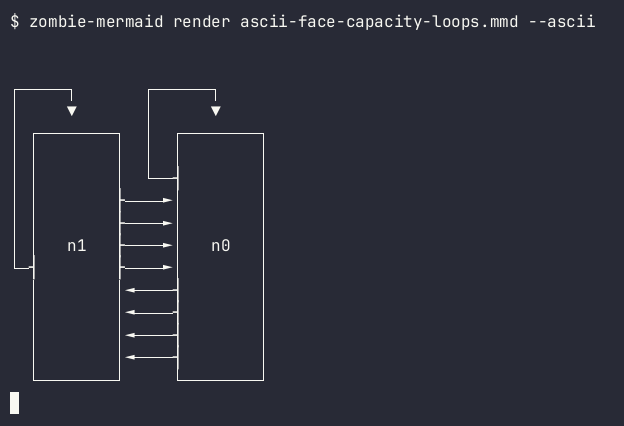
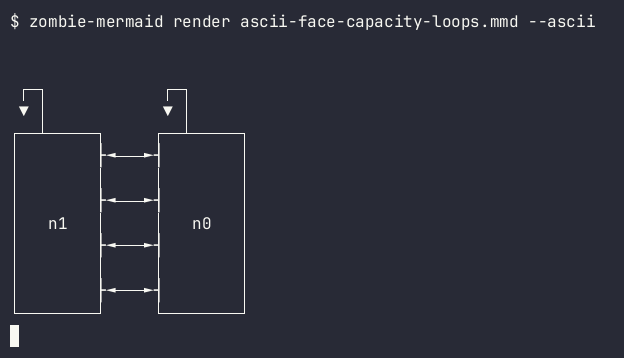
fix(ascii): pair dense edges one row each way, hook self-loops over the top (#2645)

diff --git a/packages/ascii-renderer/src/edge-routing.ts b/packages/ascii-renderer/src/edge-routing.ts
@@ -673,12 +673,10 @@ export function assignParallelEdgeLanes(graph: AsciiGraph): void {
   // #2645: a dense facing pair gives each edge a row of its own on the faces.
   for (const e of graph.edges) {
     if (!denseFacingPair(graph, e) || e.from.index > e.to.index) continue
-    const n = graph.edges.filter(
-      (o) =>
-        o.from !== o.to &&
-        new Set([o.from, o.to]).has(e.from) &&
-        new Set([o.from, o.to]).has(e.to),
-    ).length
+    const n = Math.max(
+      graph.edges.filter((o) => o.from === e.from && o.to === e.to).length,
+      graph.edges.filter((o) => o.from === e.to && o.to === e.from).length,
+    )
     const at = requireGridCoord(e.from).y + 1
     graph.rowHeight.set(at, Math.max(graph.rowHeight.get(at) ?? 0, n + 2))
   }
@@ -1396,7 +1394,7 @@ export function denseFacingPair(graph: AsciiGraph, edge: AsciiEdge): boolean {
         (o.from === edge.to && o.to === edge.from)),
   )
   return (
-    group.length >= 3 &&
+    group.length >= 6 &&
     group.some((o) => o.from === edge.from) &&
     group.some((o) => o.to === edge.from) &&
     group.every(
@@ -1407,6 +1405,22 @@ export function denseFacingPair(graph: AsciiGraph, edge: AsciiEdge): boolean {
         !o.clusterTarget,
     )
   )
+}
+
+/**
+ * Row key of an edge in a dense facing pair: its rank among the edges running
+ * its way, so the i-th edge each way shares one row (a stroke with a head at
+ * each end). Undefined outside such a pair.
+ */
+export function denseRank(
+  graph: AsciiGraph,
+  edge: AsciiEdge,
+): string | undefined {
+  if (!denseFacingPair(graph, edge)) return undefined
+  const same = graph.edges.filter(
+    (o) => o.from === edge.from && o.to === edge.to,
+  )
+  return `dense|${same.indexOf(edge)}`
 }
 
 /** A self-loop on a node that ends a `backStraight` pair (#2100). */
@@ -1851,6 +1865,31 @@ export function determinePath(graph: AsciiGraph, edge: AsciiEdge): void {
 
   // #2100: a back-edge beside its forward partner, when a skip edge needs the
   // bottom faces, is a second stroke between the facing side faces.
+  // #2645: a loop on a dense pair's node is a hook over the top face, out of
+  // one top cell and back into the next, as Mermaid draws it.
+  if (
+    edge.from === edge.to &&
+    effectiveDir === 'LR' &&
+    loopOnTop(graph, edge) &&
+    !edge.loopTopWanted &&
+    graph.edges.some(
+      (o) =>
+        denseFacingPair(graph, o) &&
+        (o.from === edge.from || o.to === edge.from),
+    )
+  ) {
+    const c = requireGridCoord(edge.from)
+    edge.startDir = Up
+    edge.endDir = Up
+    edge.faceLane = false
+    edge.path = [
+      { x: c.x + 1, y: c.y },
+      { x: c.x + 1, y: c.y - 1 },
+      { x: c.x + 2, y: c.y - 1 },
+      { x: c.x + 2, y: c.y },
+    ]
+    return
+  }
   const dense = denseFacingPair(graph, edge)
   const back =
     backStraight(graph, edge) ||

diff --git a/packages/ascii-renderer/src/__tests__/ascii-face-capacity-loops.test.ts b/packages/ascii-renderer/src/__tests__/ascii-face-capacity-loops.test.ts
@@ -28,19 +28,20 @@ describe('dense reciprocal group between facing faces (#2645)', () => {
   const src =
     'flowchart RL\n  n0["n0"]\n  n1["n1"]\n  n1 --> n0\n  n0 --> n1\n  n1 --> n0\n  n1 --> n0\n  n1 --> n1\n  n0 --> n0\n  n0 --> n1\n  n1 --> n0\n  n0 --> n1\n  n0 --> n1'
 
-  it('draws every edge as its own stroke between the side faces', () => {
+  it('pairs the edges each way on one stroke per row, heads at both ends', () => {
     const out = renderMermaidASCII(src)
-    // Four strokes each way, none merged; nothing runs under the nodes.
+    // Four rows, each ◄───► : every edge end keeps a cell and an arrowhead.
     expect(out.match(/►/g)).toHaveLength(4)
     expect(out.match(/◄/g)).toHaveLength(4)
-    const lines = out.split('\n')
-    expect(lines.filter((l) => /─►│|◄─/.test(l))).toHaveLength(8)
+    expect(out.split('\n').filter((l) => /◄─+►/.test(l))).toHaveLength(4)
+    // Nothing runs under the nodes.
+    expect(out.split('\n').at(-1)).toMatch(/^└─+┘\s+└─+┘$/)
   })
 
   it('puts the self-loops on top, above the nodes', () => {
     const out = renderMermaidASCII(src)
     const lines = out.split('\n')
-    const firstBox = lines.findIndex((l) => l.includes('┌────────┐'))
+    const firstBox = lines.findIndex((l) => l.includes('┴'))
     expect(firstBox).toBeGreaterThan(0)
     expect(lines.slice(0, firstBox).join('')).toMatch(/▼/)
   })

diff --git a/packages/ascii-renderer/src/port-offsets.ts b/packages/ascii-renderer/src/port-offsets.ts
@@ -35,11 +35,7 @@ import { requireGridCoord } from './types.ts'
 import { isPortFixedEdge } from './edge-cell-styles.ts'
 import { clusterLaneEndShift } from './cluster-boundary.ts'
 import { runsAlong, segmentsOf } from './grid-occupancy.ts'
-import {
-  denseFacingPair,
-  leavesFlowFace,
-  leavesRightFace,
-} from './edge-routing.ts'
+import { denseRank, leavesFlowFace, leavesRightFace } from './edge-routing.ts'
 
 /** Cells between a fixed stroke and a moved one (one blank cell). */
 const STROKE_SPACING = 2
@@ -967,7 +963,10 @@ function placeFace(
       ...shape,
       // Ends that turn the same way at the same depth run on together
       // beyond the stem: they are one route (a fan, or duplicate loops).
-      key: `${shape.role}|${shape.heading}|${shape.depth}|${fixed.get(f.edge)}|${denseFacingPair(graph, f.edge) ? graph.edges.indexOf(f.edge) : ''}`,
+      // A dense facing pair (#2645) pairs its i-th edge each way on one row.
+      key:
+        denseRank(graph, f.edge) ??
+        `${shape.role}|${shape.heading}|${shape.depth}|${fixed.get(f.edge)}`,
       // A straight lane: the #1284 pair side (down-travelling right).
       push: pushOf(f.run, f.role),
       // A flow-axis face lane stays on its outer side of every stem.

diff --git a/packages/ascii-renderer/src/__tests__/ascii-duplicate-edges-2025-2028-2030.test.ts b/packages/ascii-renderer/src/__tests__/ascii-duplicate-edges-2025-2028-2030.test.ts
@@ -659,6 +659,9 @@ describe('ASCII duplicate edges and self-loops (#2025, #2028, #2030)', () => {
       heads += headsOnExitStems(out).length
     }
     expect(cycles).toBeLessThanOrEqual(15)
-    expect(heads).toBeLessThanOrEqual(3)
+    // #2645: a dense facing pair (6+ edges between two neighbours) draws its
+    // i-th edge each way as one `◄──►` row, so a head sits beside the other
+    // edge's exit by design (3 -> 12 over these seeds).
+    expect(heads).toBeLessThanOrEqual(12)
   })
 })
